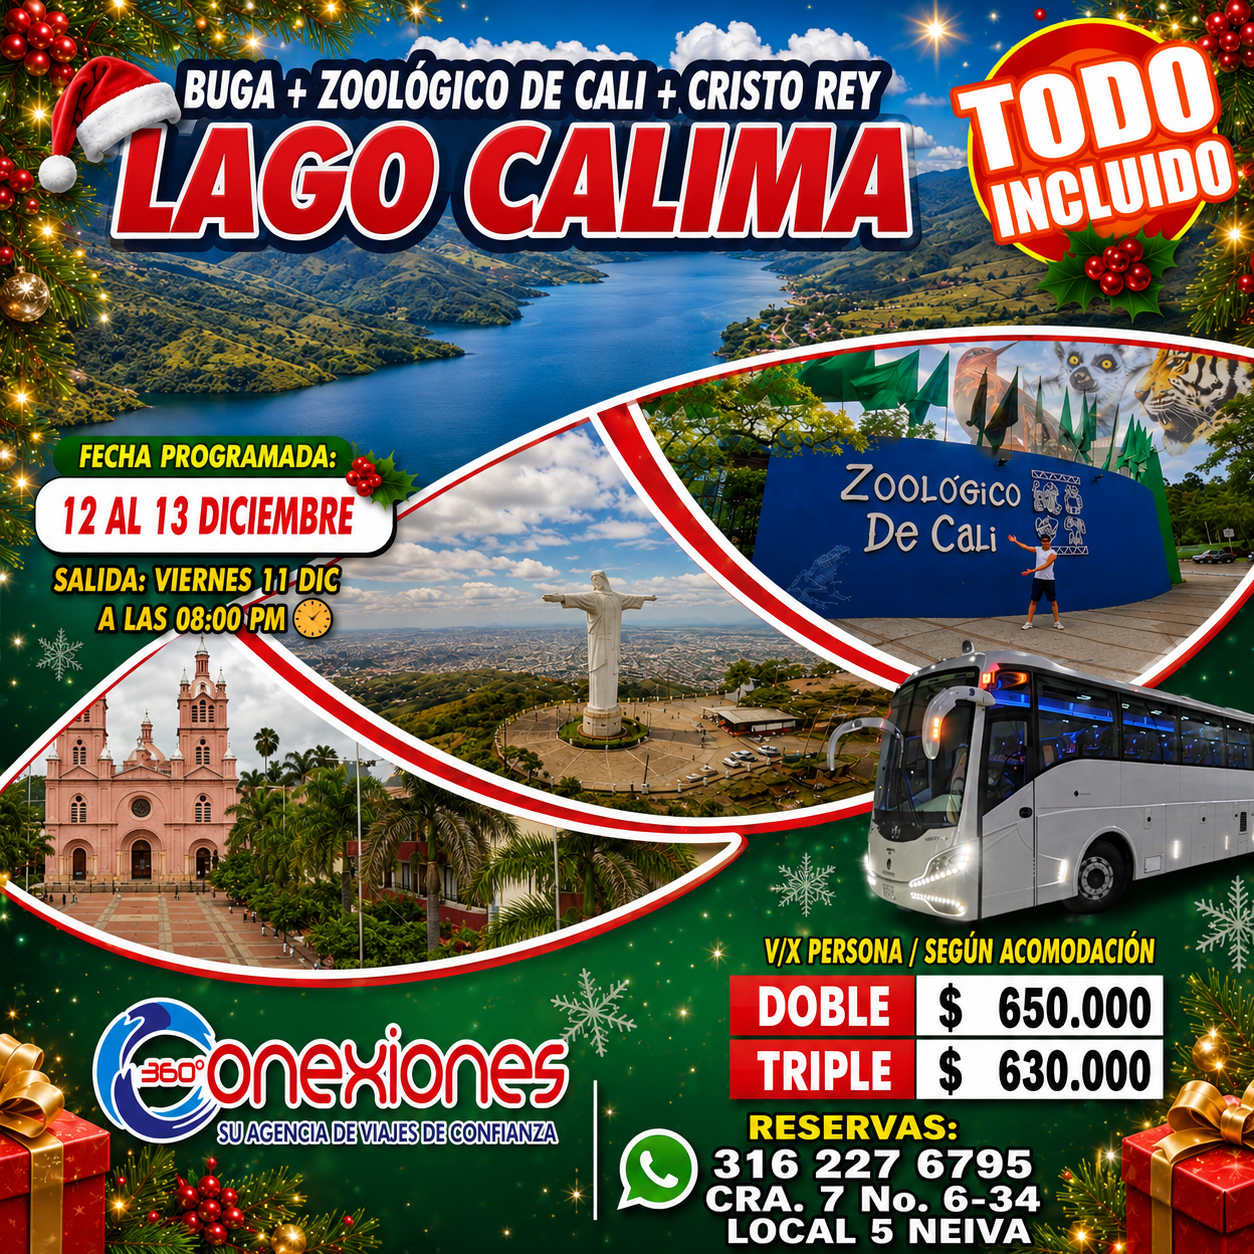
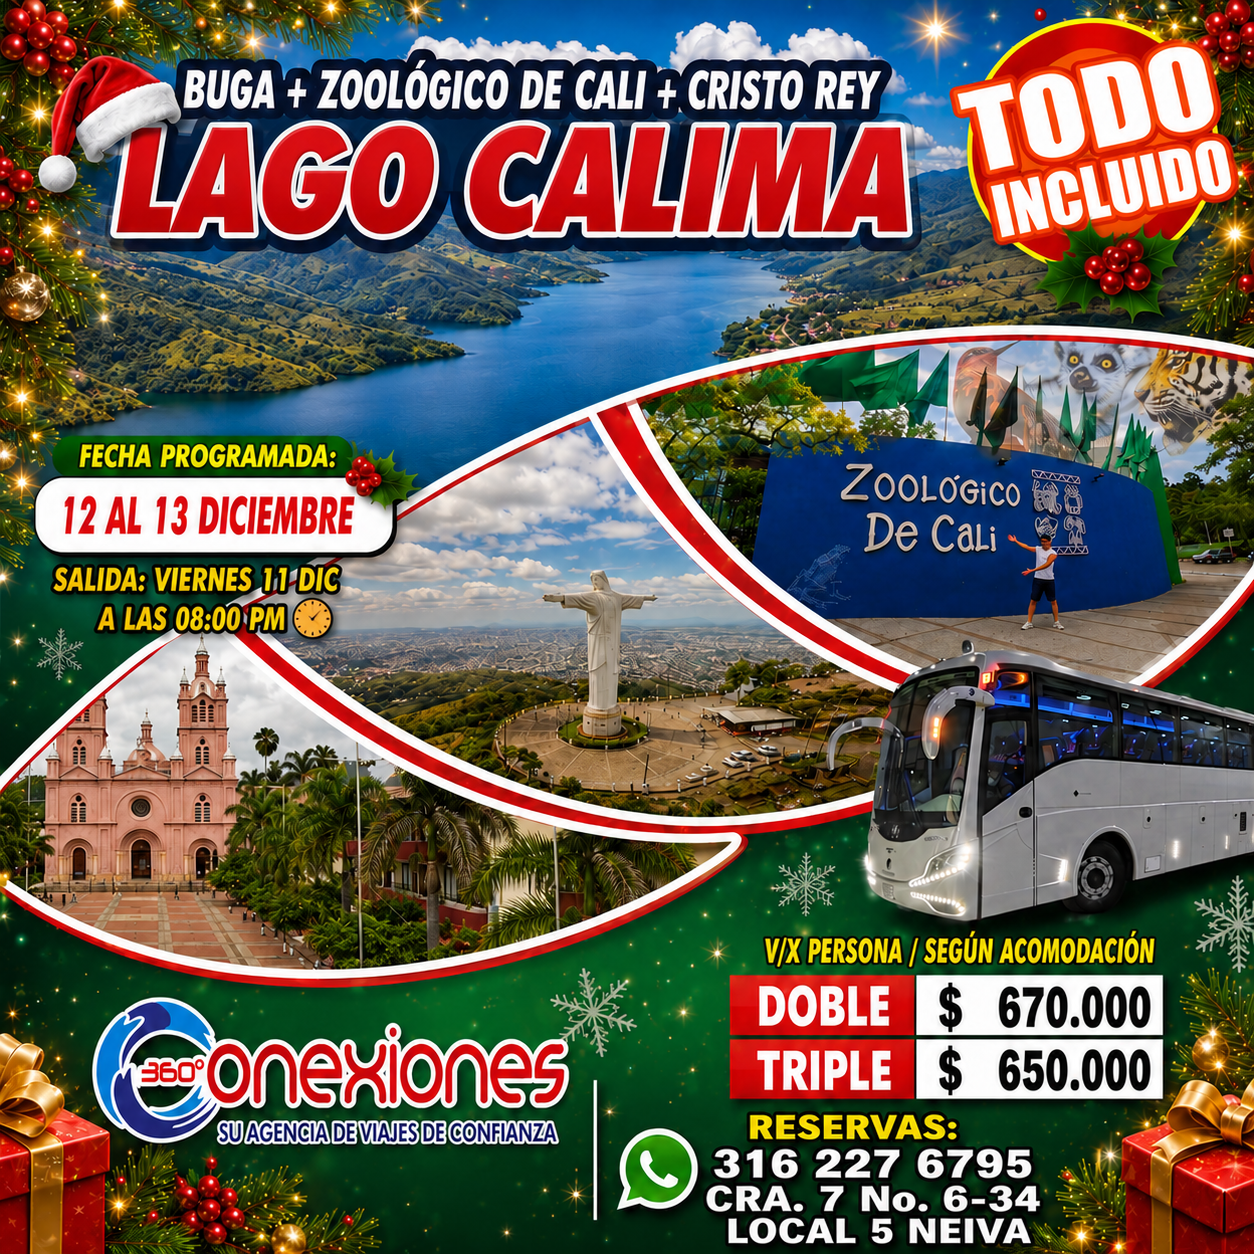
correciones dic 5-08-26

diff --git a/src/data/flyers/flyers.ts b/src/data/flyers/flyers.ts
@@ -1232,23 +1232,10 @@ export const flyers: FlyerPlan[] = [
     tipo: "terrestre",
     titulo: "Eje Cafetero",
     fechas: ["Diciembre 6 al 8"],
-    precio: 960000,
+    precio: 910000,
     imagen: "/Diciembre2026/ejecafe.jpg",
     whatsappBase:
       "Hola Conexiones360, quiero información del plan Eje Cafetero",
-  },
-              {
-    id: "piscilago-diciembre",
-    mes: "diciembre",
-    tipo: "terrestre",
-    titulo: "Piscilago Pasadía",
-    fechas: [
-      "Diciembre 6",
-    ],
-    precio: 180000,
-    imagen: "/Diciembre2026/piscilago.jpg",
-    whatsappBase:
-      "Hola Conexiones360, quiero información del plan Piscilago Pasadía",
   },
                   {
     id: "boyaca-diciembre",
@@ -1265,19 +1252,19 @@ export const flyers: FlyerPlan[] = [
     id: "cafam-diciembre",
     mes: "diciembre",
     tipo: "terrestre",
-    titulo: "Cafam Melgar",
+    titulo: "Cafam Melgar 2X",
     fechas: ["Diciembre 8"],
-    precio: 160000,
+    precio: 320000,
     imagen: "/Diciembre2026/cafam.jpg",
     whatsappBase:
-      "Hola Conexiones360, quiero información del plan Cafam Melgar",
+      "Hola Conexiones360, quiero información del plan Cafam Melgar 2X",
   },
               {
     id: "costacaribe-diciembre",
     mes: "diciembre",
     tipo: "terrestre",
     titulo: "Costa Caribe",
-    fechas: ["Diciembre 10 al 17"],
+    fechas: ["Diciembre 10 al 16"],
     precio: 1600000,
     imagen: "/Diciembre2026/costacaribe.jpg",
     whatsappBase:
@@ -1289,32 +1276,10 @@ export const flyers: FlyerPlan[] = [
     tipo: "terrestre",
     titulo: "Cali, Lago Calima y Buga",
     fechas: ["Diciembre 11 al 13"],
-    precio: 630000,
+    precio: 650000,
     imagen: "/Diciembre2026/calilago.jpg",
     whatsappBase:
       "Hola Conexiones360, quiero información del plan Cali, Lago Calima y Buga",
-  },
-                {
-    id: "prado-diciembre",
-    mes: "diciembre",
-    tipo: "terrestre",
-    titulo: "Pasadía Prado Tolima",
-    fechas: ["Diciembre 13"],
-    precio: 199000,
-    imagen: "/Diciembre2026/prado.jpg",
-    whatsappBase:
-      "Hola Conexiones360, quiero información del plan Pasadía Prado Tolima",
-  },
-                {
-    id: "termales-diciembre",
-    mes: "diciembre",
-    tipo: "terrestre",
-    titulo: "Termales Santa Rosa de Cabal",
-    fechas: ["Diciembre 20"],
-    precio: 350000,
-    imagen: "/Diciembre2026/termales.jpg",
-    whatsappBase:
-      "Hola Conexiones360, quiero información del plan Termales Santa Rosa de Cabal",
   },
                 {
     id: "AlumbradoMedellin-diciembre",
@@ -1331,9 +1296,9 @@ export const flyers: FlyerPlan[] = [
     id: "boyaca-diciembre",
     mes: "diciembre",
     tipo: "terrestre",
-    titulo: "Luces Navideñas Boyacá",
+    titulo: "Fin de año en Boyacá",
     fechas: ["Diciembre 31 al Enero 3"],
-    precio: 1230000,
+    precio: 1290000,
     imagen: "/Diciembre2026/boyaca.jpg",
     whatsappBase:
       "Hola Conexiones360, quiero información del plan Boyacá",
